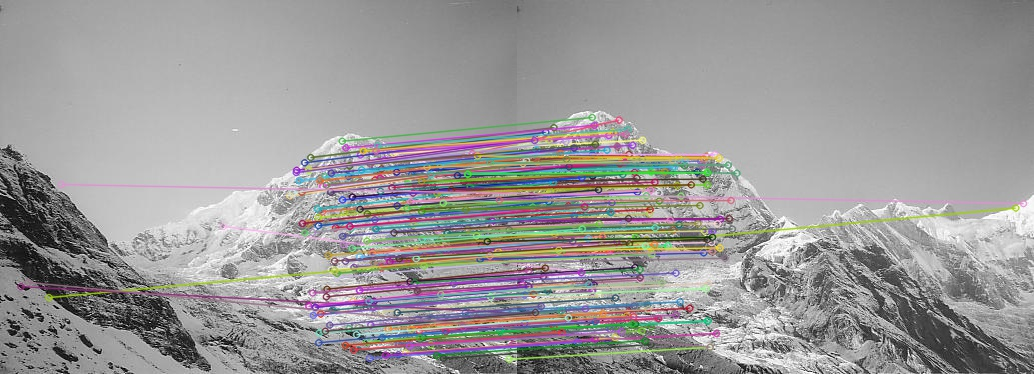
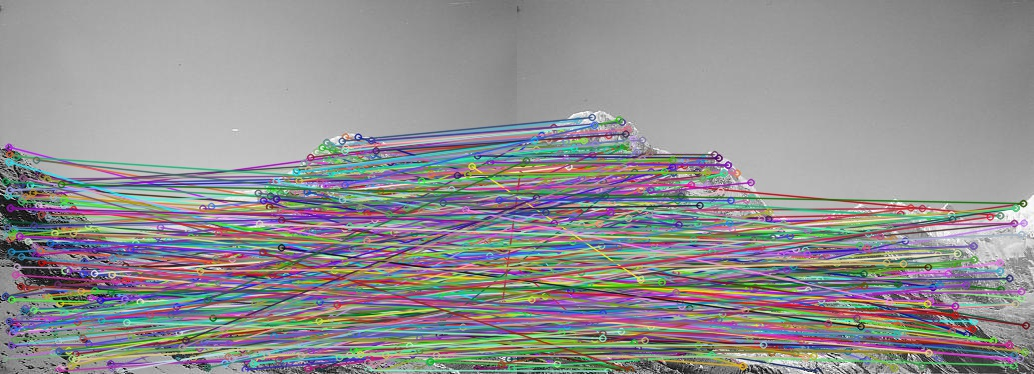
Updated knn image matching to include both inliers and outliers

diff --git a/Project 2/Task1/main.py b/Project 2/Task1/main.py
@@ -59,9 +59,12 @@ def _draw_match_keypoints(*args):
     for m, n in matches:
         if m.distance < 0.75*n.distance:
             good_matches.append([m])
+
+    # All matches, inliers and outliers
+    good = [[i[0]] for i in matches]
     # cv2.drawMatchesKnn expects list of lists as matches.
     img3 = cv.drawMatchesKnn(img1_g, keypoint_1, img2_g,
-                             keypoint_2, good_matches, None, flags=2)
+                             keypoint_2, good, None, flags=2)
     _save('task1_matches_knn.jpg', img3)
 
     return(good_matches)
